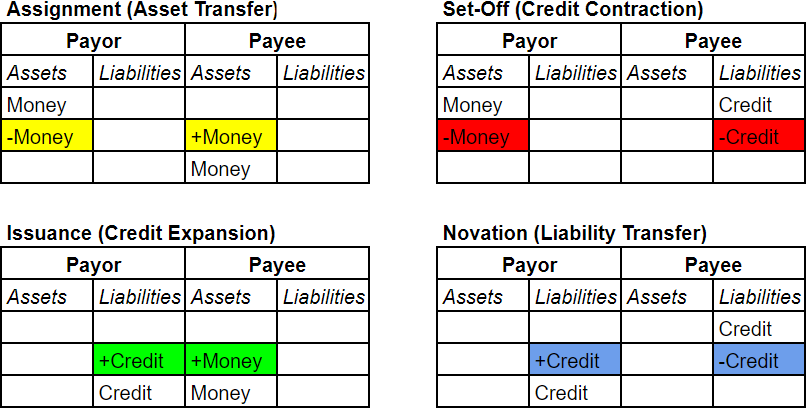
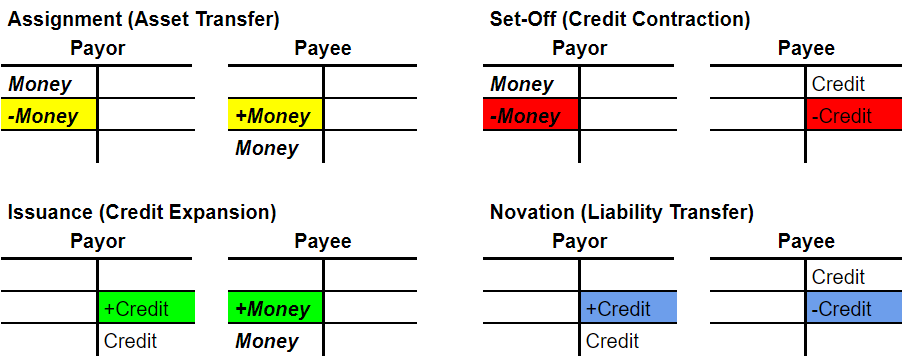
Update sample balance sheets to new style

diff --git a/mooc-2023/Lecture1/lecture1-b1-bank.png.md b/mooc-2023/Lecture1/lecture1-b1-bank.png.md
@@ -1,0 +1,2 @@
+# /Files/images/greshm/mooc-github/mooc-2023/Lecture1/lecture1-b1-bank.png
+
